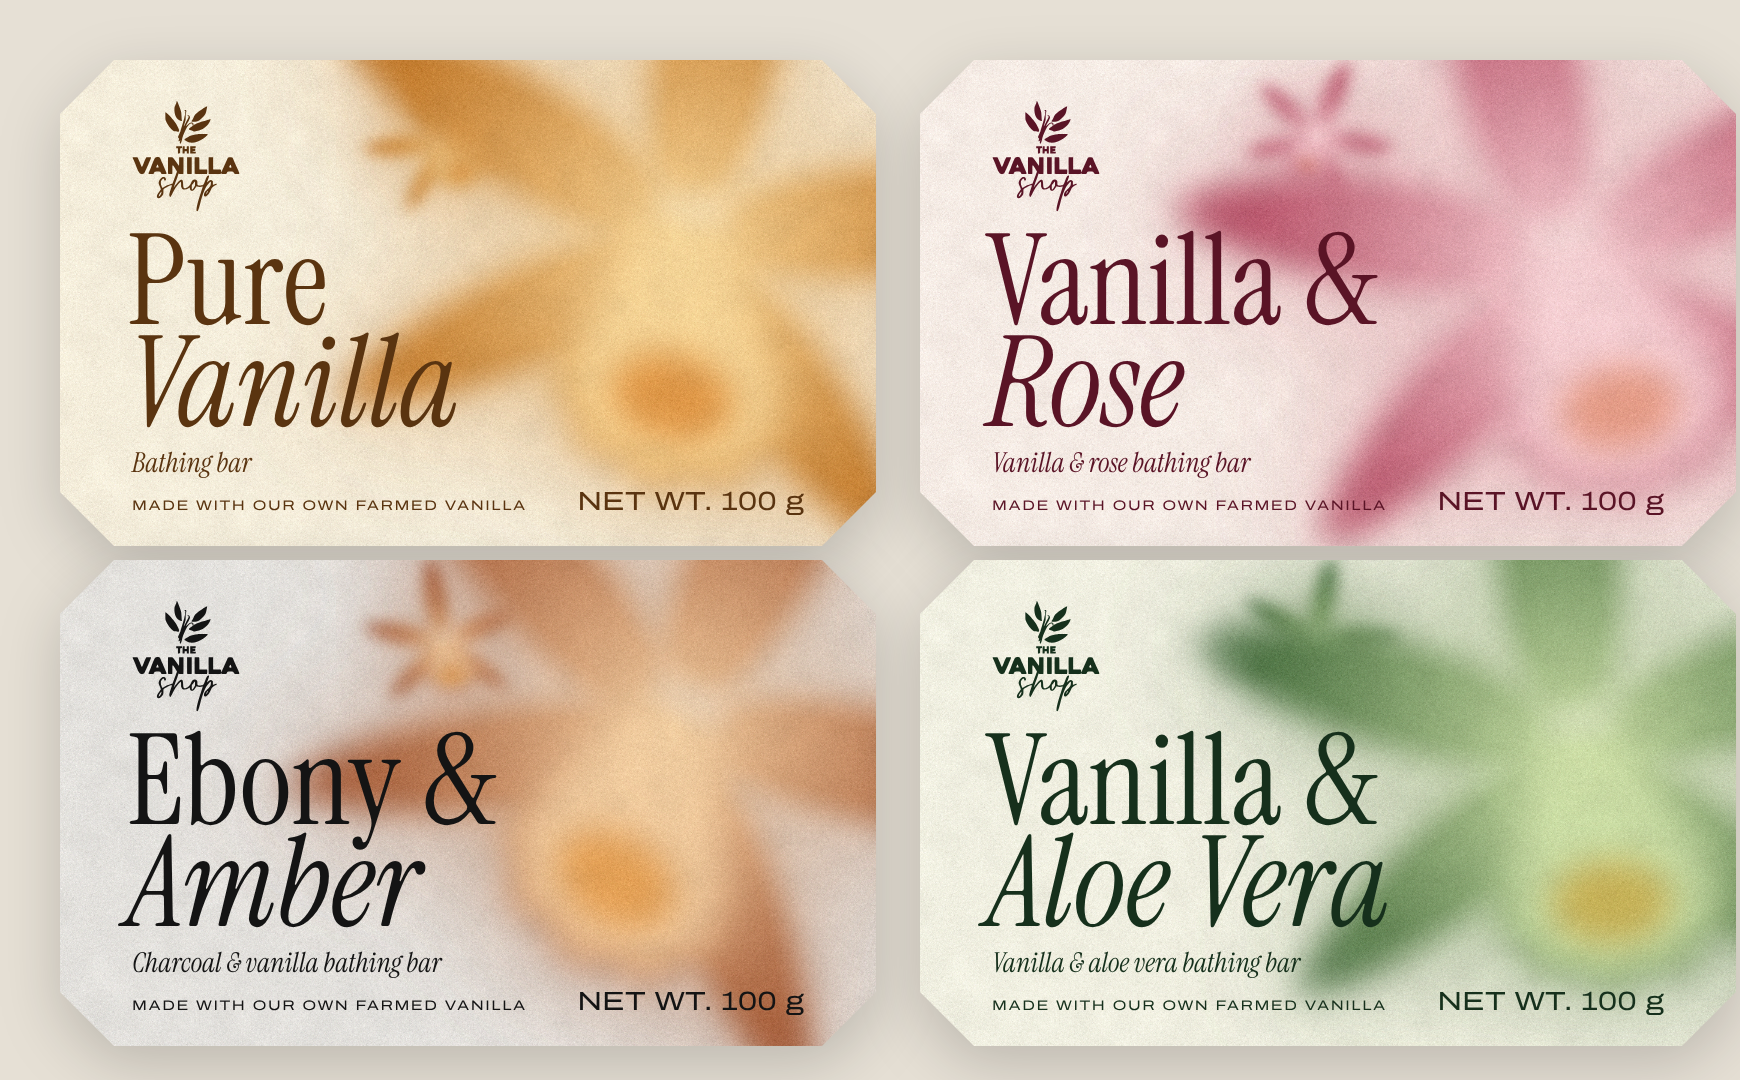
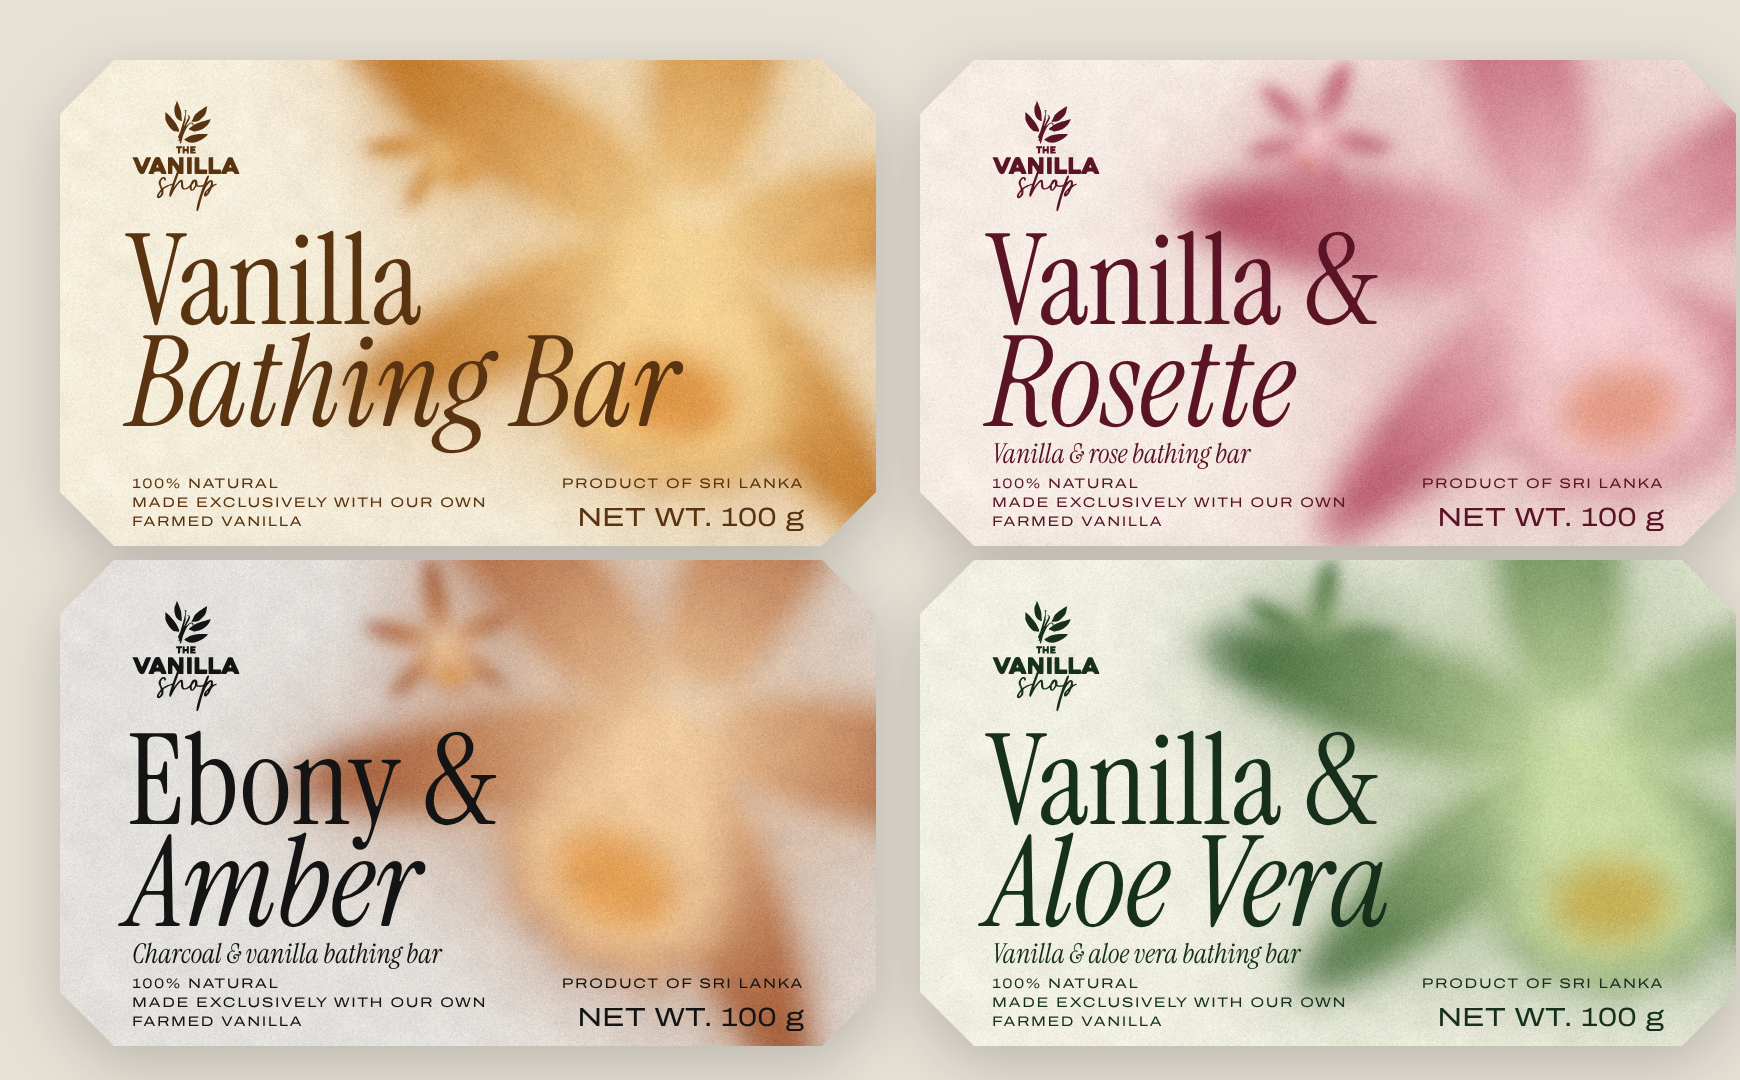
Soap Bloom duo: real box text, three black-to-paper options for Ebony & Amber
Claude-Session: https://claude.ai/code/session_01Psd6wLDi15Gf4F1fXEFmxS

diff --git a/vanilla-shop/studies/soap/bloom-duo/octo8.py b/vanilla-shop/studies/soap/bloom-duo/octo8.py
@@ -143,22 +143,29 @@ def front_engr(k,art=None):
        cap('MADE WITH OUR OWN',69.6,0.8), cap('FARMED VANILLA',72.6,0.8), cap('NET WT. 100 G',75.6,0.8)]
     return (f'<svg xmlns="http://www.w3.org/2000/svg" viewBox="0 0 {W} {H}" width="100%" height="100%"><defs><clipPath id="oc"><path d="{octa()}"/></clipPath></defs>'
             f'<g clip-path="url(#oc)">{"".join(b)}</g></svg>')
-def front_bloom(k):
+FN={'vanilla':('Vanilla','Bathing Bar'),'rosette':('Vanilla &','Rosette'),'ebony':('Ebony &','Amber'),'aloe':('Vanilla &','Aloe Vera')}
+FD={'vanilla':'','rosette':'Vanilla & rose bathing bar','ebony':'Charcoal & vanilla bathing bar','aloe':'Vanilla & aloe vera bathing bar'}
+def front_bloom(k,art=None):
     # Type sized to a hierarchy you can read at arm's length on a shelf: name ~60 pt, logo 18 mm, descriptor ~13 pt,
     # small caps ~6.5 pt, net weight ~12.5 pt (digits ~3.2 mm, the usual minimum for a front panel of this size).
-    g,ink=DG[k],DK[k]; l1,l2=EN[k]; x=12
-    b=[f'<image href="file:///tmp/claude-0/-home-user-PersonalEventPlanner305App/0712b206-ea71-562e-9a83-45f8f096455f/scratchpad/soap/b3/D-{k}.png" x="-7" y="-7" width="150" height="95" preserveAspectRatio="none"/>',
+    g,ink=DG[k],DK[k]; l1,l2=FN[k]; x=12
+    art=art or f'D-{k}.png'
+    b=[f'<image href="file:///tmp/claude-0/-home-user-PersonalEventPlanner305App/0712b206-ea71-562e-9a83-45f8f096455f/scratchpad/soap/b3/{art}" x="-7" y="-7" width="150" height="95" preserveAspectRatio="none"/>',
        logo(x+9,16,18,ink),
        f'<text x="{x-0.8}" y="44" font-family="ISR" font-size="21" fill="{ink}">{l1}</text>',
        f'<text x="{x-0.8}" y="61" font-family="IS" font-size="21" fill="{ink}">{l2}</text>',
-       f'<text x="{x}" y="68.6" font-family="IS" font-size="4.6" fill="{ink}">{ES[k]}</text>',
-       f'<text x="{x}" y="75" font-family="AE" font-size="2.3" fill="{ink}" letter-spacing="0.25">MADE WITH OUR OWN FARMED VANILLA</text>',
-       f'<text x="124" y="75" font-family="AE" font-size="4.4" fill="{ink}" text-anchor="end">NET WT. 100 g</text>']
+       (f'<text x="{x}" y="67.2" font-family="IS" font-size="4.6" fill="{ink}">{FD[k]}</text>' if k!='vanilla' else ''),
+       f'<text x="{x}" y="71.4" font-family="AE" font-size="2.3" fill="{ink}" letter-spacing="0.25">100% NATURAL</text>',
+       f'<text x="{x}" y="74.5" font-family="AE" font-size="2.3" fill="{ink}" letter-spacing="0.25">MADE EXCLUSIVELY WITH OUR OWN</text>',
+       f'<text x="{x}" y="77.6" font-family="AE" font-size="2.3" fill="{ink}" letter-spacing="0.25">FARMED VANILLA</text>',
+       f'<text x="124" y="71.4" font-family="AE" font-size="2.3" fill="{ink}" letter-spacing="0.25" text-anchor="end">PRODUCT OF SRI LANKA</text>',
+       f'<text x="124" y="77.6" font-family="AE" font-size="4.4" fill="{ink}" text-anchor="end">NET WT. 100 g</text>']
     return (f'<svg xmlns="http://www.w3.org/2000/svg" viewBox="0 0 {W} {H}" width="100%" height="100%"><defs><clipPath id="oc"><path d="{octa()}"/></clipPath></defs>'
             f'<g clip-path="url(#oc)">{"".join(b)}</g></svg>')
 def front(opt,k):
     if opt=='E': return front_engr(k)
     if opt=='F': return front_bloom(k)
+    if opt in ('F1','F2','F3'): return front_bloom('ebony','D-ebony-'+opt[1]+'.png')
     if opt=='F0': return front_engr(k,'/tmp/claude-0/-home-user-PersonalEventPlanner305App/0712b206-ea71-562e-9a83-45f8f096455f/scratchpad/soap/b3/D-'+k+'.png')
     if opt=='R': return front_premium(k)
     if opt=='Q': return front_band(k)
@@ -234,3 +241,9 @@ flat('E-flat','E','#E6E0D5')
 page('F-bloom-duo','Bloom, two flowers','One vanilla flower large and cropped off the box, a second one small, out of the way of the type; soft watercolour glow, heavier blur and grain than the post.','F','#E6E0D5')
 flat('F-flat','F','#E6E0D5')
 print('ok')
+
+def sheet(name,items,bg='#E6E0D5'):
+    cells=''.join(f'<div style="position:absolute;left:{40+(i%2)*850}px;top:{40+(i//2)*510}px;width:816px;height:486px;filter:drop-shadow(0 10px 18px rgba(0,0,0,.18))">{front(o,k)}</div>' for i,(o,k) in enumerate(items))
+    rows=(len(items)+1)//2
+    open(O+name+'.html','w').write(f'<html><head><style>{CSS}html,body{{margin:0}}</style></head><body><div style="position:relative;width:1740px;height:{40+rows*510}px;background:{bg}">{cells}</div></body></html>')
+sheet('F-ebony-options',[('F1','ebony'),('F2','ebony'),('F3','ebony'),('F','vanilla')])

diff --git a/vanilla-shop/studies/soap/bloom-duo/ebony.py b/vanilla-shop/studies/soap/bloom-duo/ebony.py
@@ -1,0 +1,39 @@
+# Ebony & Amber, black done the way the references do it: solid black at the heart, fading out into the paper.
+import sys, numpy as np
+from PIL import Image, ImageFilter
+sys.path.insert(0,'/home/user/PersonalEventPlanner305App/vanilla-shop/brand/directions/bloom'); sys.path.insert(0,'/tmp/claude-0/-home-user-PersonalEventPlanner305App/0712b206-ea71-562e-9a83-45f8f096455f/scratchpad/soap/b3')
+import bloom
+O='/tmp/claude-0/-home-user-PersonalEventPlanner305App/0712b206-ea71-562e-9a83-45f8f096455f/scratchpad/soap/b3/'
+K=bloom.K; W,H=150,95; G=np.array([236,233,228],np.float32)
+yy,xx=np.mgrid[0:H*K,0:W*K].astype(np.float32)/K
+def finish(a,name):
+    rng=np.random.default_rng(11); h,w=a.shape[:2]
+    a=a+rng.normal(0,12,(h,w,1))+rng.normal(0,3,(h,w,3))
+    tooth=np.asarray(Image.fromarray(rng.normal(128,40,(h,w)).clip(0,255).astype(np.uint8)).filter(ImageFilter.GaussianBlur(1.6))).astype(np.float32)-128
+    a=a+0.35*tooth[...,None]; Image.fromarray(a.clip(0,255).astype(np.uint8)).save(O+name)
+def over(base,rgb,alpha): return base*(1-alpha[...,None])+np.asarray(rgb,np.float32)*alpha[...,None]
+def flower(k,cx,cy,R,rot,edge,core,throat,blur):
+    S=int(R*2.4); n=O+f'L-eb-{k}'; bloom.bloom(n,S,S,S/2,S/2,R,edge,core,throat,None,blur=blur,grain=0)
+    im=Image.open(n+'.png').rotate(rot,resample=Image.BICUBIC); c=Image.new('RGBA',(W*K,H*K),(0,0,0,0))
+    c.paste(im,(int((cx+7)*K-im.size[0]/2),int((cy+7)*K-im.size[1]/2))); a=np.asarray(c).astype(np.float32)/255
+    return a[...,:3]*255,a[...,3]
+base=np.ones((H*K,W*K,3),np.float32)*G
+# 1. the flower inverted: black at the lip and throat, greying out to nothing at the petal tips; small one in amber
+a=base.copy()
+rgb,al=flower('1s',66,14,15,22,'#B5651E','#F4D3A2','#E0913A',2.2); a=a*(1-al[...,None])+rgb*al[...,None]
+rgb,al=flower('1b',104,30,74,-30,'#B9B2AA','#0A0908','#0A0908',5.2); al=np.clip(al*1.25,0,1); a=a*(1-al[...,None])+rgb*al[...,None]
+finish(a,'D-ebony-1.png')
+# 2. two charcoal pebbles, large and small: a hard black body with a soft halo falling away on one side
+def pebble(a,cx,cy,rx,ry,ang,dx,dy):
+    t=np.radians(ang); X=(xx-cx)*np.cos(t)+(yy-cy)*np.sin(t); Y=-(xx-cx)*np.sin(t)+(yy-cy)*np.cos(t)
+    def ell(sx,sy,ox,oy,soft):
+        Xo=X-ox; Yo=Y-oy; d=np.sqrt((Xo/sx)**2+(Yo/sy)**2); return np.clip((1-d)/soft+0.5,0,1)
+    halo=ell(rx*1.25,ry*1.25,dx,dy,0.9)**1.6*0.85; body=ell(rx,ry,0,0,0.14)
+    m=np.maximum(halo,body)
+    return over(a,(10,9,8),m)
+a=base.copy(); a=pebble(a,108,36,27,21,-12,-5,-8); a=pebble(a,66,14,9,7,10,2,4); finish(a,'D-ebony-2.png')
+# 3. a black sun: one soft radial mass, solid at the centre, fading out to paper; a small amber flower glowing at its rim
+a=base.copy(); d=np.hypot(xx-110,(yy-34)*1.05); m=np.clip(1-(d-12)/50,0,1); m=m*m*(3-2*m); a=over(a,(10,9,8),m)
+rgb,al=flower('3s',62,18,16,18,'#B5651E','#F7DDB0','#E0913A',2.4); a=a*(1-al[...,None])+rgb*al[...,None]
+finish(a,'D-ebony-3.png')
+print('ok')

diff --git a/vanilla-shop/studies/soap/bloom-duo/TEXT.md b/vanilla-shop/studies/soap/bloom-duo/TEXT.md
@@ -1,0 +1,20 @@
+# Soap box text, from the boxes now on sale (photos from thevanillashop.lk in `site-photos/`)
+
+| Soap | Name on the box | Line under it |
+|---|---|---|
+| Natural Vanilla Soap | Vanilla Bathing Bar | (none) |
+| Rosette Soap | Vanilla & Rosette | Vanilla & rose bathing bar |
+| Charcoal Soap | Ebony & Amber | Charcoal & vanilla bathing bar |
+| Aloe Soap | Vanilla & Aloe Vera | Vanilla & aloe vera bathing bar |
+
+Every front also says: 100% Natural · Made exclusively with our own farmed vanilla · Product of Sri Lanka.
+
+Website (vanilla-bathing-bar page): Rs 1,200 (Vanilla), Rs 1,300 (the other three), **114 g** each.
+Website ingredients are one shared list: natural vanilla extract; saponified oils (coconut, palm, olive or shea butter);
+botanical additives (charcoal / rose extract / aloe vera); natural glycerin; essential oils (optional, by variant).
+
+The back of the charcoal box shows the same copy and the same incomplete ingredients as the vanilla box
+("Vanilla Planifolia bean extract, bean powder, sodium palmate, sodium palm kernelate, glycerin,").
+
+To confirm: net weight (100 g on the dieline vs 114 g on the website); each soap's full INCI list; barcodes,
+MRP, dates and TFM for Charcoal and Aloe.
